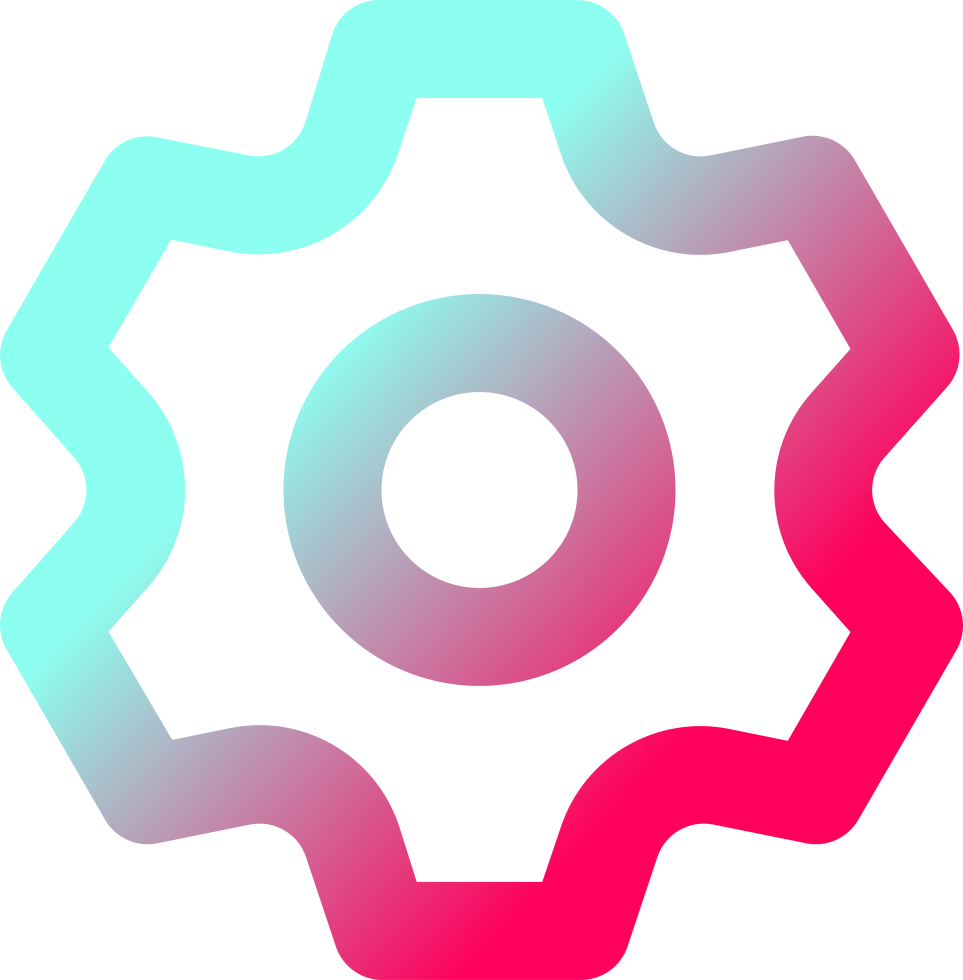
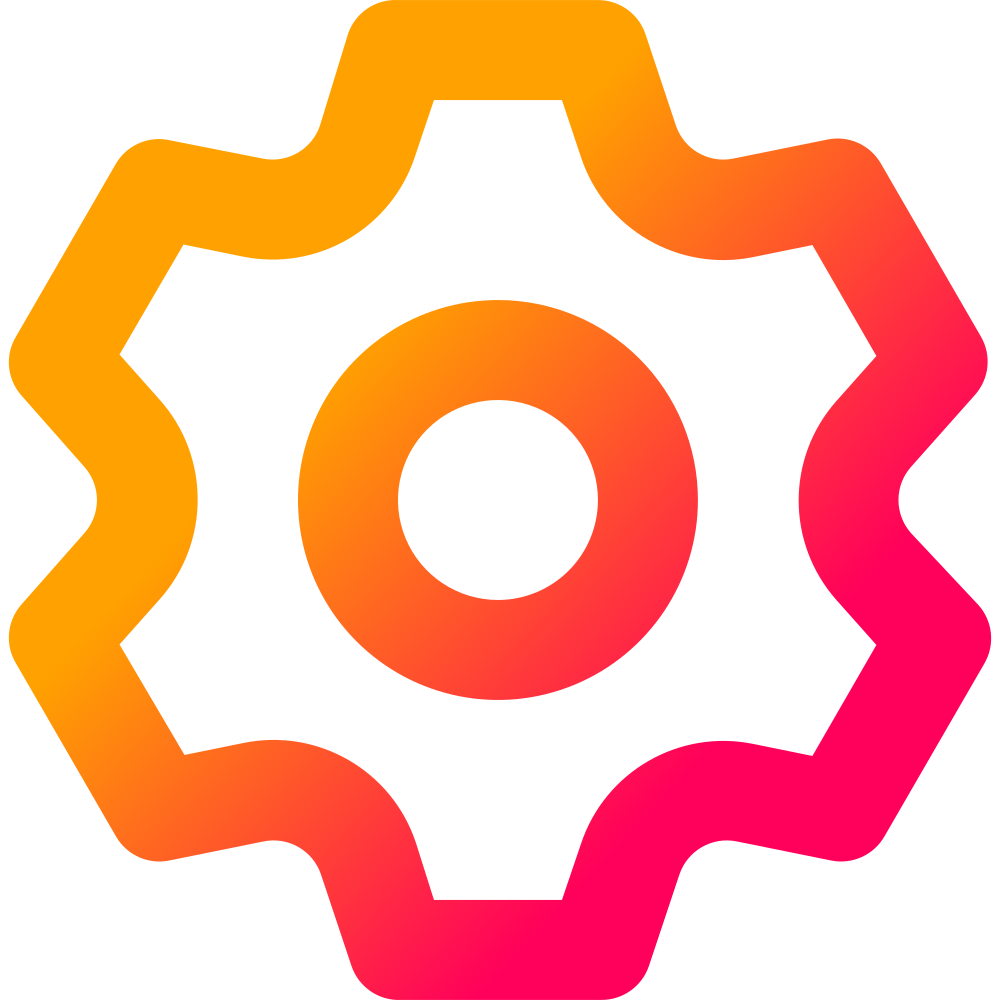
various QoL and pb sorting

diff --git a/compile.py b/compile.py
@@ -3,6 +3,7 @@
 import argparse, os, shutil
 import src.literals as literals
 from pathlib import Path
+from glob import glob
 
 
 def getArgs():
@@ -13,9 +14,14 @@ def getArgs():
                       help='flag to not zip the final files')
     return args.parse_args()
 
+def info(msg, sep='\n'):
+    print(f'\033[92m-I-\033[0m {msg}', end=sep, flush=False if sep == '\n' else True)
+
 def main():
+    dot_width = 50
     args = getArgs()
     proj_root_path = Path('.')
+    build_path = proj_root_path / 'build'
     dist_path = proj_root_path / 'dist'
     dist_files_path = dist_path / 'program_files'
     ui_path = proj_root_path / 'ui'
@@ -26,37 +32,51 @@ def main():
     main_ico_path = icons_path / 'main.ico'
     main_bat_path = dist_files_path / 'sibyl-debugger.bat'
     installer_path = proj_root_path / 'installer.py'
-    installer_ico_path = icons_path / 'installer.ico'
+    installer_ico_path = icons_path / 'settings.ico'
     installer_bat_path = dist_path / 'installer-debugger.bat'
 
     if dist_path.exists():
         shutil.rmtree(str(dist_path))
     debug = '' if args.debug else '--windowed '
-    print(f'\033[92m-I-\033[0m Creating Sibyl.exe')
-    os.system(f'pyinstaller.exe --onefile {debug}--name Sibyl --icon {main_ico_path} {main_path}')
-    print(f'\033[92m-I-\033[0m Creating Installer.exe')
-    os.system(f'pyinstaller.exe --onefile {debug}--name Installer --icon {installer_ico_path} {installer_path}')
+    main_cmd = f'pyinstaller.exe --uac-admin --clean --log-level CRITICAL --onefile {debug}--name'
+    info('Creating Sibyl.exe '.ljust(dot_width, '.'), sep=' ')
+    os.system(f'{main_cmd} Sibyl --icon {main_ico_path} {main_path}')
+    print('done')
 
-    print('\033[92m-I-\033[0m Copying/moving assets')
+    info('Creating Installer.exe '.ljust(dot_width, '.'), sep=' ')
+    os.system(f'{main_cmd} Installer --icon {installer_ico_path} {installer_path}')
+    print('done')
+
+    info('Copying/moving assets '.ljust(dot_width, '.'), sep=' ')
     os.makedirs(str(dist_files_path))
     shutil.move(str(dist_path / 'Sibyl.exe'), str(dist_files_path / 'Sibyl.exe'))
     shutil.copytree(str(ui_path), str(dist_ui_path))
     shutil.copytree(str(icons_path), str(dist_icons_path), ignore=shutil.ignore_patterns('*.ico'))
+    print('done')
 
     if args.debug:
-        print(f'\033[92m-I-\033[0m Creating debugger batch files')
+        info('Creating debugger batch files '.ljust(dot_width, '.'), sep=' ')
         with open(str(main_bat_path), 'w') as f:
             f.write('Sibyl.exe\npause')
         with open(str(installer_bat_path), 'w') as f:
             f.write('Installer.exe\npause')
+        print('done')
     elif args.zip:
-        print(f'\033[92m-I-\033[0m Zipping and cleaning up {dist_path}')
+        info(f'Zipping and cleaning up {dist_path} '.ljust(dot_width, '.'), sep=' ')
         shutil.make_archive(f'Sibyl-{literals.version}', 'zip', str(dist_path))
         shutil.rmtree(str(dist_path))
         os.mkdir(str(dist_path))
         shutil.move(f'Sibyl-{literals.version}.zip', str(dist_path))
+        print('done')
 
-        print(f'\n\033[92m-I-\033[0m Version Notes:')
+    info('Cleaning up project root '.ljust(dot_width, '.'), sep=' ')
+    shutil.rmtree(str(build_path))
+    for spec in glob(f'{proj_root_path}/*.spec'):
+        os.remove(spec)
+    print('done')
+
+    if args.zip:
+        info('Version Notes:')
         print_md = [f'|Feature or Issue|Type|Notes|', '|:---|:---|:---|']
         for key, val in literals.version_notes.items():
             if len(val) > 0:

diff --git a/src/sibylMain.py b/src/sibylMain.py
@@ -3,6 +3,7 @@ from PyQt5.QtCore import QTimer, QUrl
 from PyQt5.QtWidgets import QFileDialog, QMainWindow, QMessageBox, QTreeWidgetItem
 from pathlib import Path
 from copy import deepcopy
+from numpy import concatenate
 import json, datetime, re, os
 import src.literals as literals
 import src.helpers as helpers
@@ -111,9 +112,7 @@ class SibylMain(QMainWindow):
                 del_backup = False
                 evt.ignore()
         if del_backup:
-            backup_path = self.__get('root_path') / literals.backup_filename
-            if backup_path.exists():
-                os.remove(str(backup_path))
+            self.__deleteBackup()
 
 
     #! --- HEAVY LIFTERS --------------------------------------------------------------------------
@@ -234,6 +233,7 @@ class SibylMain(QMainWindow):
             proj_name, proj_body = data
             new_proj_board = deepcopy(self.__get('current_proj_board'))
             new_proj_board['projects'][proj_name] = proj_body
+            new_proj_board = self.__sortByPriority(new_proj_board)
             self.__set('append_board_hist', new_proj_board)
 
         elif action == 'add_new_todo':
@@ -255,6 +255,7 @@ class SibylMain(QMainWindow):
         elif action == 'complete_project':
             new_proj_board = deepcopy(self.__get('current_proj_board'))
             new_proj_board['completed'][data[0]] = new_proj_board['projects'].pop(data[0])
+            new_proj_board = self.__sortByPriority(new_proj_board)
             self.__set('append_board_hist', new_proj_board)
 
         elif action == 'complete_todo':
@@ -751,6 +752,7 @@ class SibylMain(QMainWindow):
         self.statusBar().showMessage(msg)
 
     def __clearAll(self) -> None:
+        self.__deleteBackup()
         self.__initVars()
         self.__populateProjects()
         self.__populateTodos()
@@ -843,6 +845,11 @@ class SibylMain(QMainWindow):
                 self.__populateProjects(backup['selected_proj'])
                 self.__populateTodos()
 
+    def __deleteBackup(self) -> None:
+        backup_path = self.__get('root_path') / literals.backup_filename
+        if backup_path.exists():
+            os.remove(str(backup_path))
+
 
     #! --- UPDATE SAVE FILE -----------------------------------------------------------------------
     #! --------------------------------------------------------------------------------------------
@@ -884,4 +891,13 @@ class SibylMain(QMainWindow):
         return board
 
     def __sortByPriority(self, board: dict) -> dict:
-        return board
+        ret_board = deepcopy(board)
+        for section in ['projects', 'completed', 'archived']:
+            ret_board[section] = {}
+            categories = [[], [], [], [], [], []]
+            for key in board[section].keys():
+                categories[board[section][key]['priority']].append(key)
+            categories_sorted = [sorted(l) for l in categories]
+            for proj in list(concatenate(categories_sorted).flat):
+                ret_board[section][proj] = board[section][proj]
+        return ret_board

diff --git a/src/literals.py b/src/literals.py
@@ -3,14 +3,18 @@
 version = 'v1.2.2'
 version_notes = {
     'Feature': [
+        ('Project Board Sorting', 'Projects, completed projects, and archived projects (upcoming feature) are now sorted within backend data structure. Sorting is by priority first and then alphabetically by name. This translates to the report window and projects veiwer showing the projects in this order.'),
 
     ],
     'Tweak': [
         ('Current Filepath now Path', 'Changed the internal variable storing the current filepath from string to Path object. Changed interracting code accordingly.'),
+        ('Clear Backup on Close', 'Closing out a project board now deletes the backup file as well. This prevents the case when a project board is closed out, the program unexpectedly closes, and then upon boot, Sibyl loads a project board that the user has already closed (thus is likely unwanted).'),
+        ('New Colors and Icons', 'Changed a few icons and replaced the teal color with orange for better visibility. The teal was blending in with the white app too well resulting in poor visibility.'),
+        ('Elevated Privilege Executables', 'Executables now run with elevated privileges so installation and writing to directories with elevated read/write requirements are available.'),
 
     ],
     'Bug Fix': [
-        ('README Typos', 'Corrected typos in the README documentation.'),
+        ('Typos', 'Corrected typos in the README documentation.'),
 
     ]
 }
@@ -31,7 +35,7 @@ installer_cleanup = [
 
 #? [RUNTIME]
 backup_filename = 'backup.json'
-tic_rate = 50
+tic_rate = 24
 tab_width = 4
 hist_len_on_save = 5
 gh_repo = 'joebobs0n/project-tracker'
